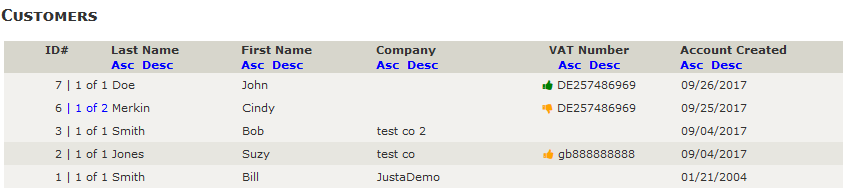
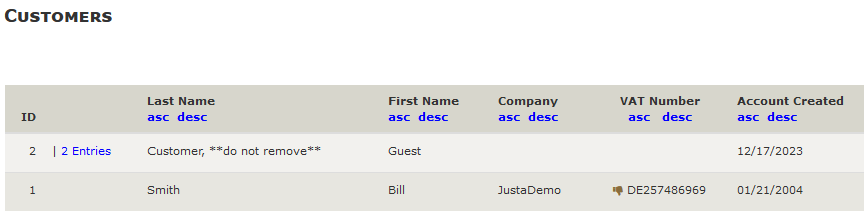
#30: Correct PHP Warning when editing customer

diff --git a/docs/vat4eu/readme.html b/docs/vat4eu/readme.html
@@ -52,12 +52,13 @@ dd { margin-top: 0; padding-left: 40px; }
 ul.simple, ul.simple li { list-style-type: none; padding: 0 0 0 0.5em; margin: 0; }
 #table-config-osm tr td:first-child, #table-config-osm tr th:first-child { width: 30em; }
 #overview-images { margin-right: 0.5em; }
-.back { float: left; }
+.back { float: left; margin-right: 0.25em; }
 #fdcv ol { margin: 0; }
 .nowrap { white-space: nowrap; }
 .h-name { font-style: italic; font-weight: bold; }
 #t-handlers td, #t-handlers th { vertical-align: top; }
 div.totals-desc h4 { border-top: 1px solid #666; }
+a[target=_blank] { text-decoration: underline; }
 
 .etabs { margin: 0; padding: 0; }
 .tab { display: inline-block; zoom:1; *display:inline; background: #eee; border: solid 1px #999; border-bottom: none; border-radius: 4px 4px 0 0; margin: 0; }
@@ -68,7 +69,7 @@ div.totals-desc h4 { border-top: 1px solid #666; }
 .tab-container .panel-container { background: #fff; border: solid #666 1px; padding: 10px; border-radius: 0 4px 4px 4px; }
 .panel-container { margin-bottom: 10px; }
 </style>
-<link rel="stylesheet" href="https://maxcdn.bootstrapcdn.com/font-awesome/4.2.0/css/font-awesome.min.css">
+<link rel="stylesheet" href="https://use.fontawesome.com/releases/v5.7.2/css/all.css" integrity="sha384-fnmOCqbTlWIlj8LyTjo7mOUStjsKC4pOpQbqyi7RrhN7udi9RwhKkMHpvLbHG9Sr" crossorigin="anonymous">
 <script src="https://ajax.googleapis.com/ajax/libs/jquery/1.7.1/jquery.min.js"></script>
 <script src="../jquery.easytabs.min.js"></script>
 <script>
@@ -80,7 +81,7 @@ div.totals-desc h4 { border-top: 1px solid #666; }
 
 <body>
   <h1 id="title">VAT for EU Countries (VAT4EU) for Zen Cart&reg; 1.5.8a and later</h1>
-  <p>Version 3.1.2 by lat9 and webchills.  Copyright &copy; 2017-2024, <a href="https://vinosdefrutastropicales.com" target="_blank">Vinos de Frutas Tropicales</a>.</p>
+  <p>Version 3.2.0 by lat9 and webchills.  Copyright &copy; 2017-2024, <a href="https://vinosdefrutastropicales.com" target="_blank">Vinos de Frutas Tropicales</a>.</p>
   <p>Current Support Thread on the Zen Cart forums: <a href="https://www.zen-cart.com/showthread.php?223003-VAT4EU-Support-Thread" target="_blank">https://www.zen-cart.com/showthread.php?223003-VAT4EU-Support-Thread</a></p>
   
   <p><strong>Usage Notes:</strong></p>
@@ -90,7 +91,9 @@ div.totals-desc h4 { border-top: 1px solid #666; }
     <li>If you require the automatic VAT validation service (via <a href="https://ec.europa.eu/taxation_customs/vies/technicalInformation.html" target="_blank">VIES</a>) to operate properly, you'll need to ensure that the <code>SOAP</code> service is enabled in your site's PHP.  To check, navigate to your Zen Cart admin's <em>Tools :: Server/Version Info</em> and search that page for <code>Soap Client</code>.  If that setting is not found or is not set to <em>enabled</em>, then the <em>VIES</em> service cannot be used.</li>
   </ol>
 
-  <div class="tab-container" id="outer-container">
+  <i class="fa fa-exclamation-circle fa-5x red back"></i>&nbsp;&nbsp;<B>Important:</b> If your site is using v1.5.8a, you'll need to update your <code>admin/customers.php</code> to include <a href="https://github.com/zencart/zencart/blob/7be3f744f7db0f381d3b9beb3166adb5ef5a1131/admin/customers.php#L393-L398" target="_blank">these</a> updates that were applied after v1.5.8a's release.  Without those changes, you will not be able to successfully update a customer's record if the VAT Number was found to be invalid!
+
+  <div class="tab-container clearBoth" id="outer-container">
     <ul class="etabs">
       <li class="tab"><a href="#overview">Overview</a></li>
       <li class="tab"><a href="#installation">Installation</a></li>
@@ -361,10 +364,10 @@ div.totals-desc h4 { border-top: 1px solid #666; }
               <p><em>VAT4EU</em> integrates with your admin's <em>Customers :: Customers</em> listing display, identifying which customers have supplied a <em>VAT Number</em> and the validation-status of each.  Clicking on the <b>Asc</b> or <b>Desc</b> links for the &quot;VAT Number&quot; column sorts the display based on the <em>status</em> of the associated <em>VAT Number</em>.</p>
               <p>When sorted in <b>Asc</b> order, the customer records are displayed in the following status-order:</p>
               <ol>
-                <li><em>Validated via Admin Override</em>, shows <i class="fa fa-thumbs-up" aria-hidden="true" style="color: orange;"></i></li>
-                <li><em>Validated via VIES</em>, shows <i class="fa fa-thumbs-up" aria-hidden="true" style="color: green;"></i></li>               
-                <li><em>Not Validated</em>, shows <i class="fa fa-thumbs-down" aria-hidden="true" style="color: orange;"></i></li>               
-                <li><em>Deemed Invalid by VIES</em>, shows <i class="fa fa-thumbs-down" aria-hidden="true" style="color: red;"></i></li>                
+                <li><em>Validated via Admin Override</em>, shows <i class="fa fa-thumbs-up" aria-hidden="true" style="color: #8a6d3b;"></i></li>
+                <li><em>Validated via VIES</em>, shows <i class="fa fa-thumbs-up" aria-hidden="true" style="color: #3c763d;"></i></li>
+                <li><em>Not Validated</em>, shows <i class="fa fa-thumbs-down" aria-hidden="true" style="color: #8a6d3b;"></i></li>
+                <li><em>Deemed Invalid by VIES</em>, shows <i class="fa fa-thumbs-down" aria-hidden="true" style="color: #a94442;"></i></li>
               </ol>
               <img src="customers_details.png" alt="Admin Customers Details" title="Admin Customers Details" />
               <p>When you click on the &quot;Edit&quot; button associated with a customer, the information-gathering page now includes fields where you can enter (or correct) a customer's <em>VAT Number</em> entry.  If that <em>VAT Number</em> can't be automatically verified by the <em>VIES</em> service, there's a <em>VAT Validation Override</em> checkbox; ticking that box will allow the customer to create an order that <em>qualifies</em> for a VAT refund.</p>
@@ -463,6 +466,7 @@ div.totals-desc h4 { border-top: 1px solid #666; }
             <li>BUGFIX: Remove deprecated (and unneeded) notification from admin observer's watch-list.</li>
             <li>CHANGE: Drop support for Zen Cart versions prior to 1.5.8<b>a</b>.</li>
             <li>INTROP: Account for zc158a+ changes in address-handling in the <b>Customers :: Customers</b> tool.</li>
+            <li>BUGFIX: Correct missing PHP Warning when editing a customer in the admin.</li>
             <li>The following files were changed, <span class="added">added</span>, or <span class="removed">removed</span>:<ol>
                 <li>/includes/classes/observers/auto.vat_for_eu_countries.php</li>
                 <li><span class="added">/includes/languages/english/extra_definitions/lang.vat4eu_extra_definitions.php</span></li>

diff --git a/YOUR_ADMIN/includes/classes/observers/Vat4EuAdminObserver.php b/YOUR_ADMIN/includes/classes/observers/Vat4EuAdminObserver.php
@@ -18,7 +18,6 @@ class Vat4EuAdminObserver extends base
     private $vatNumberStatus = 0;
     private $vatNumberMessage = '';
     private $vatNumberError = false;
-    private $vatNumberUpdateError = false;
     private $addressFormatCount = 0;
     private $addressesToFormat;
     private $vatCountries = [];
@@ -124,8 +123,7 @@ class Vat4EuAdminObserver extends base
             // $p2 ... (r/w) A reference to the $error variable, set to true if the VAT is not valid.
             //
             case 'NOTIFY_ADMIN_CUSTOMERS_UPDATE_VALIDATE':
-                $this->vatNumberUpdateError = !$this->validateVatNumber();
-                if ($this->vatNumberUpdateError === true) {
+                if ($this->validateVatNumber() === false) {
                     $p2 = true;
                 }
                 break;
@@ -188,14 +186,14 @@ class Vat4EuAdminObserver extends base
                         $heading_text .
                         '<br>' .
                         '<a href="' . zen_href_link(FILENAME_CUSTOMERS, $current_parms . 'list_order=vatnum-asc') . '">
-                            <span class="' . $asc_class . '" title="' . VAT4EU_SORT_ASC . '">
-                                Asc
-                            </span>
+                            <span class="' . $asc_class . '" title="' . VAT4EU_SORT_ASC . '">' .
+                                TEXT_ASC .
+                            '</span>
                          </a>&nbsp;' .
                         '<a href="' . zen_href_link(FILENAME_CUSTOMERS, $current_parms . 'list_order=vatnum-desc') . '">
-                            <span class="' . $desc_class . '" title="'. VAT4EU_SORT_DESC . '">
-                                Desc
-                            </span>
+                            <span class="' . $desc_class . '" title="'. VAT4EU_SORT_DESC . '">' .
+                                TEXT_DESC .
+                            '</span>
                          </a>',
                     'class' => 'center',
                 ];
@@ -401,26 +399,26 @@ class Vat4EuAdminObserver extends base
         switch ($vat_validation) {
             case VatValidation::VAT_ADMIN_OVERRIDE:
                 $glyph = 'fa fa-thumbs-up';
-                $color = 'orange';
+                $color = 'warning';
                 $title = VAT4EU_ADMIN_OVERRIDE;
                 break;
             case VatValidation::VAT_VIES_OK:
                 $glyph = 'fa fa-thumbs-up';
-                $color = 'green';
+                $color = 'success';
                 $title = VAT4EU_VIES_OK;
                 break;
             case VatValidation::VAT_VIES_NOT_OK:
                 $glyph = 'fa fa-thumbs-down';
-                $color = 'red';
+                $color = 'danger';
                 $title = VAT4EU_VIES_NOT_OK;
                 break;
             default:
                 $glyph = 'fa fa-thumbs-down';
-                $color = 'orange';
+                $color = 'warning';
                 $title = VAT4EU_NOT_VALIDATED;
                 break;
         }
-        return '<i class="' . $glyph . '" aria-hidden="true" title="' . $title . '" style="color: ' . $color . '"></i> ';
+        return '<i class="' . $glyph . ' text-' . $color . '" aria-hidden="true" title="' . $title . '"></i> ';
     }
 
     // -----
@@ -502,38 +500,35 @@ class Vat4EuAdminObserver extends base
         global $db;
 
         if (isset($_POST['vat_number'])) {
-            if ($this->vatNumberUpdateError === true) {
-                $vat_number = (string)$cInfo->vat_number;
-                $vat_field = zen_draw_input_field('vat_number', htmlspecialchars($vat_number, ENT_COMPAT, CHARSET, true), zen_set_field_length(TABLE_ADDRESS_BOOK, 'entry_vat_number', 50)) . '&nbsp;' . $this->vatNumberMessage;
-                if ($this->vatNumberError === true) {
-                    $vat_override = false;
-                } else {
-                    $vat_override = zen_draw_checkbox_field('vat_number_override');
-                }
-            } else {
-                $vat_field = $vat_number . zen_draw_hidden_field('vat_number', $vat_number);
-                $vat_override = zen_draw_checkbox_field('vat_number_override', '', isset($_POST['vat_number_override']), 'readonly"');
-            }
+            $vat_number = $cInfo->vat_number;
+            $vat_override = isset($_POST['vat_number_override']);
         } else {
             [$vat_number, $vat_validated] = $this->getVatInfoFromDb($cInfo->customers_default_address_id);
-            $vat_field = zen_draw_input_field('vat_number', (string)$vat_number, zen_set_field_length(TABLE_ADDRESS_BOOK, 'entry_vat_number', 50));
-            $vat_override = zen_draw_checkbox_field('vat_number_override', '', (((int)$vat_validated) === VatValidation::VAT_ADMIN_OVERRIDE));
+            $vat_override = (((int)$vat_validated) === VatValidation::VAT_ADMIN_OVERRIDE);
         }
 
-        $vat_number_display = [
+        return [
             [
                 'label' => VAT4EU_ENTRY_VAT_NUMBER,
-                'input' => $vat_field,
+                'fieldname' => 'vat-number',
+                'input' => zen_draw_input_field(
+                    'vat_number',
+                    zen_output_string_protected((string)$vat_number),
+                    zen_set_field_length(TABLE_ADDRESS_BOOK, 'entry_vat_number', 50) . ' class="form-control" id="vat-number"'
+                ) . '&nbsp' . $this->vatNumberMessage,
+            ],
+            [
+                'label' => VAT4EU_ENTRY_OVERRIDE_VALIDATION,
+                'fieldname' => 'vat-override',
+                'input' => zen_draw_checkbox_field(
+                    'vat_number_override',
+                    'on',
+                    $vat_override,
+                    '',
+                    'id="vat-override"'
+                ),
             ],
         ];
-        if ($vat_override !== false) {
-            $vat_number_display[] = [
-                'label' => VAT4EU_ENTRY_OVERRIDE_VALIDATION,
-                'input' => $vat_override,
-            ];
-        }
-
-        return $vat_number_display;
     }
 
     // -----
